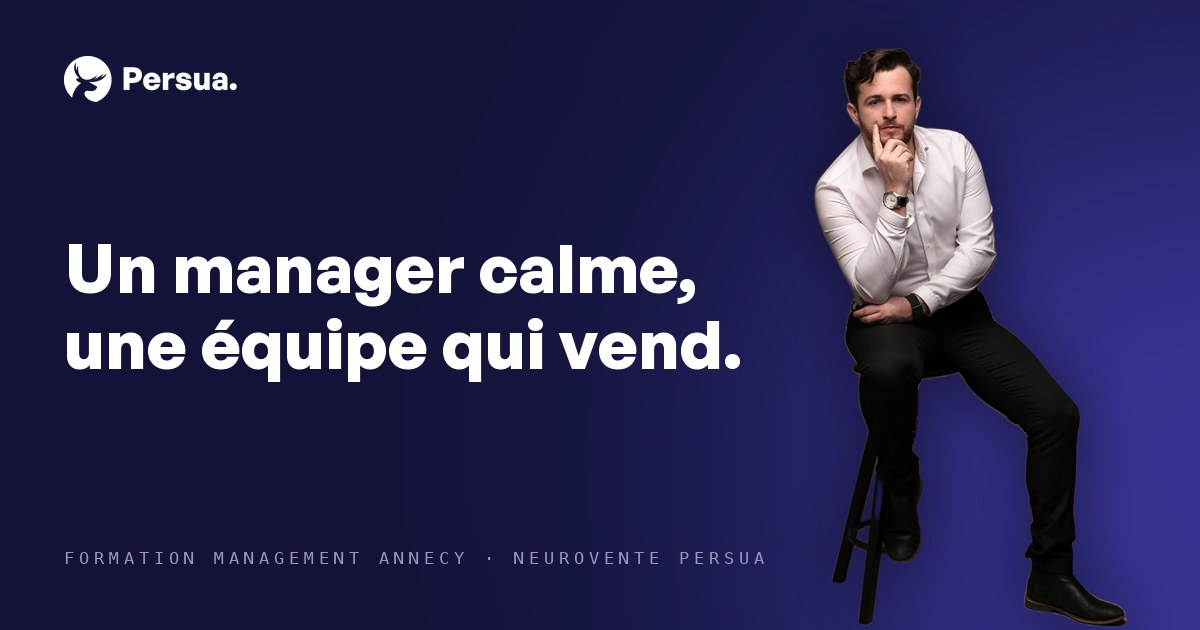
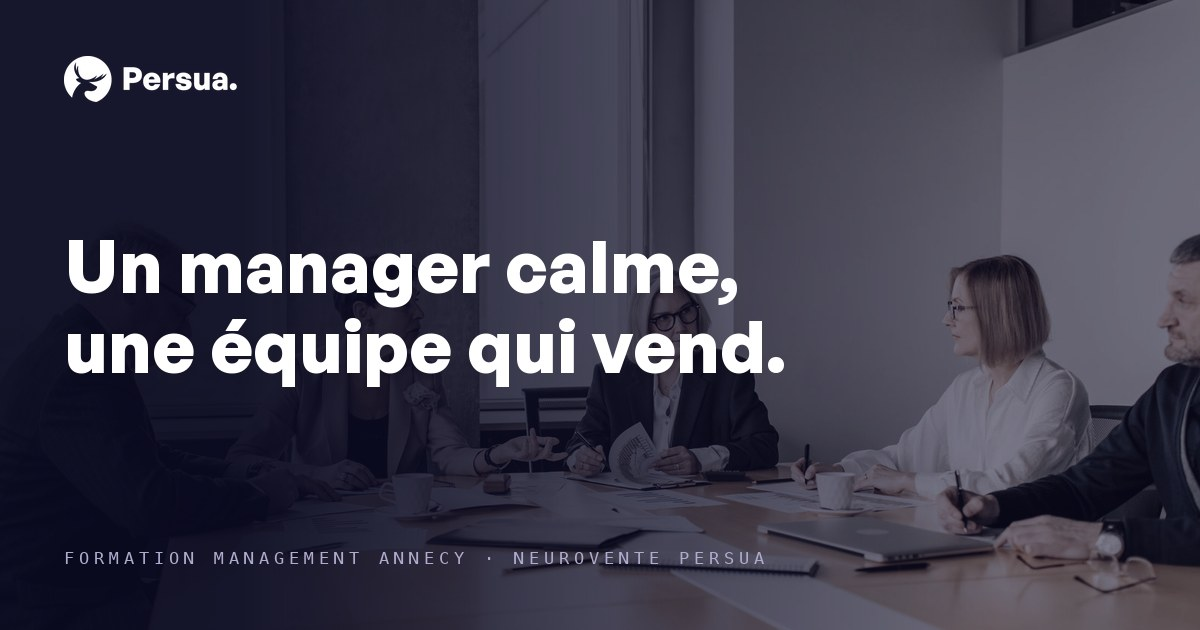
seo: visuels contexte (en-tête + corps) sur les articles du planning
Claude-Session: https://claude.ai/code/session_0145sFLjNxwm8aioKZpjpn6m

diff --git a/formation-management-annecy.html b/formation-management-annecy.html
@@ -70,6 +70,8 @@
     <h2>Le management aux KPI parle au mauvais système</h2>
     <p>Fais le test : « 1 + 1 », la réponse arrive seule ; « 38 × 47 », tu dois t'arrêter et calculer. Daniel Kahneman appelle ces deux régimes le <b>Système 1</b> (rapide, automatique, émotionnel) et le <b>Système 2</b> (lent, analytique, coûteux). Or en rendez-vous, ton commercial joue avant tout sur ses automatismes : sa posture, son ton, ses réflexes face à une objection. Le tableau de bord, lui, mesure le résultat de ces automatismes, jamais leur cause. Recadrer sur les chiffres revient à demander au Système 2 de corriger un problème logé dans le Système 1. C'est pour ça que les recadrages se ressemblent tous : le commercial acquiesce en réunion, et rejoue exactement le même rendez-vous le lendemain.</p>
 
+    <figure class="article-hero" style="margin:34px 0"><img src="assets/articles/formation-management-annecy-2.jpg" width="1200" height="675" loading="lazy" decoding="async" alt="Manager en séance de travail avec un commercial devant un tableau blanc"><figcaption>Le vrai travail du manager : réguler l'état de son équipe, pas seulement lire les chiffres.</figcaption></figure>
+
     <h2>Débriefer un appel : un axe, pas douze</h2>
     <p>Deuxième piège du manager consciencieux : le debrief exhaustif. Tu écoutes un appel, tu notes huit points d'amélioration, tu les donnes tous. Résultat mesurable la semaine suivante : rien n'a bougé. La psychologie cognitive l'explique par la <b>charge cognitive</b> : la mémoire de travail traite environ quatre unités d'information à la fois selon les travaux de Cowan, largement documentés sur <a href="https://pubmed.ncbi.nlm.nih.gov/" target="_blank" rel="noopener">PubMed</a>. Au-delà, ton commercial n'apprend plus, il subit. Dans la formation, tu repars avec un protocole de debrief simple : un appel, un axe de travail, une consigne formulée dans les mots du commercial, et on ne passe au point suivant qu'une fois le premier devenu réflexe.</p>
 
